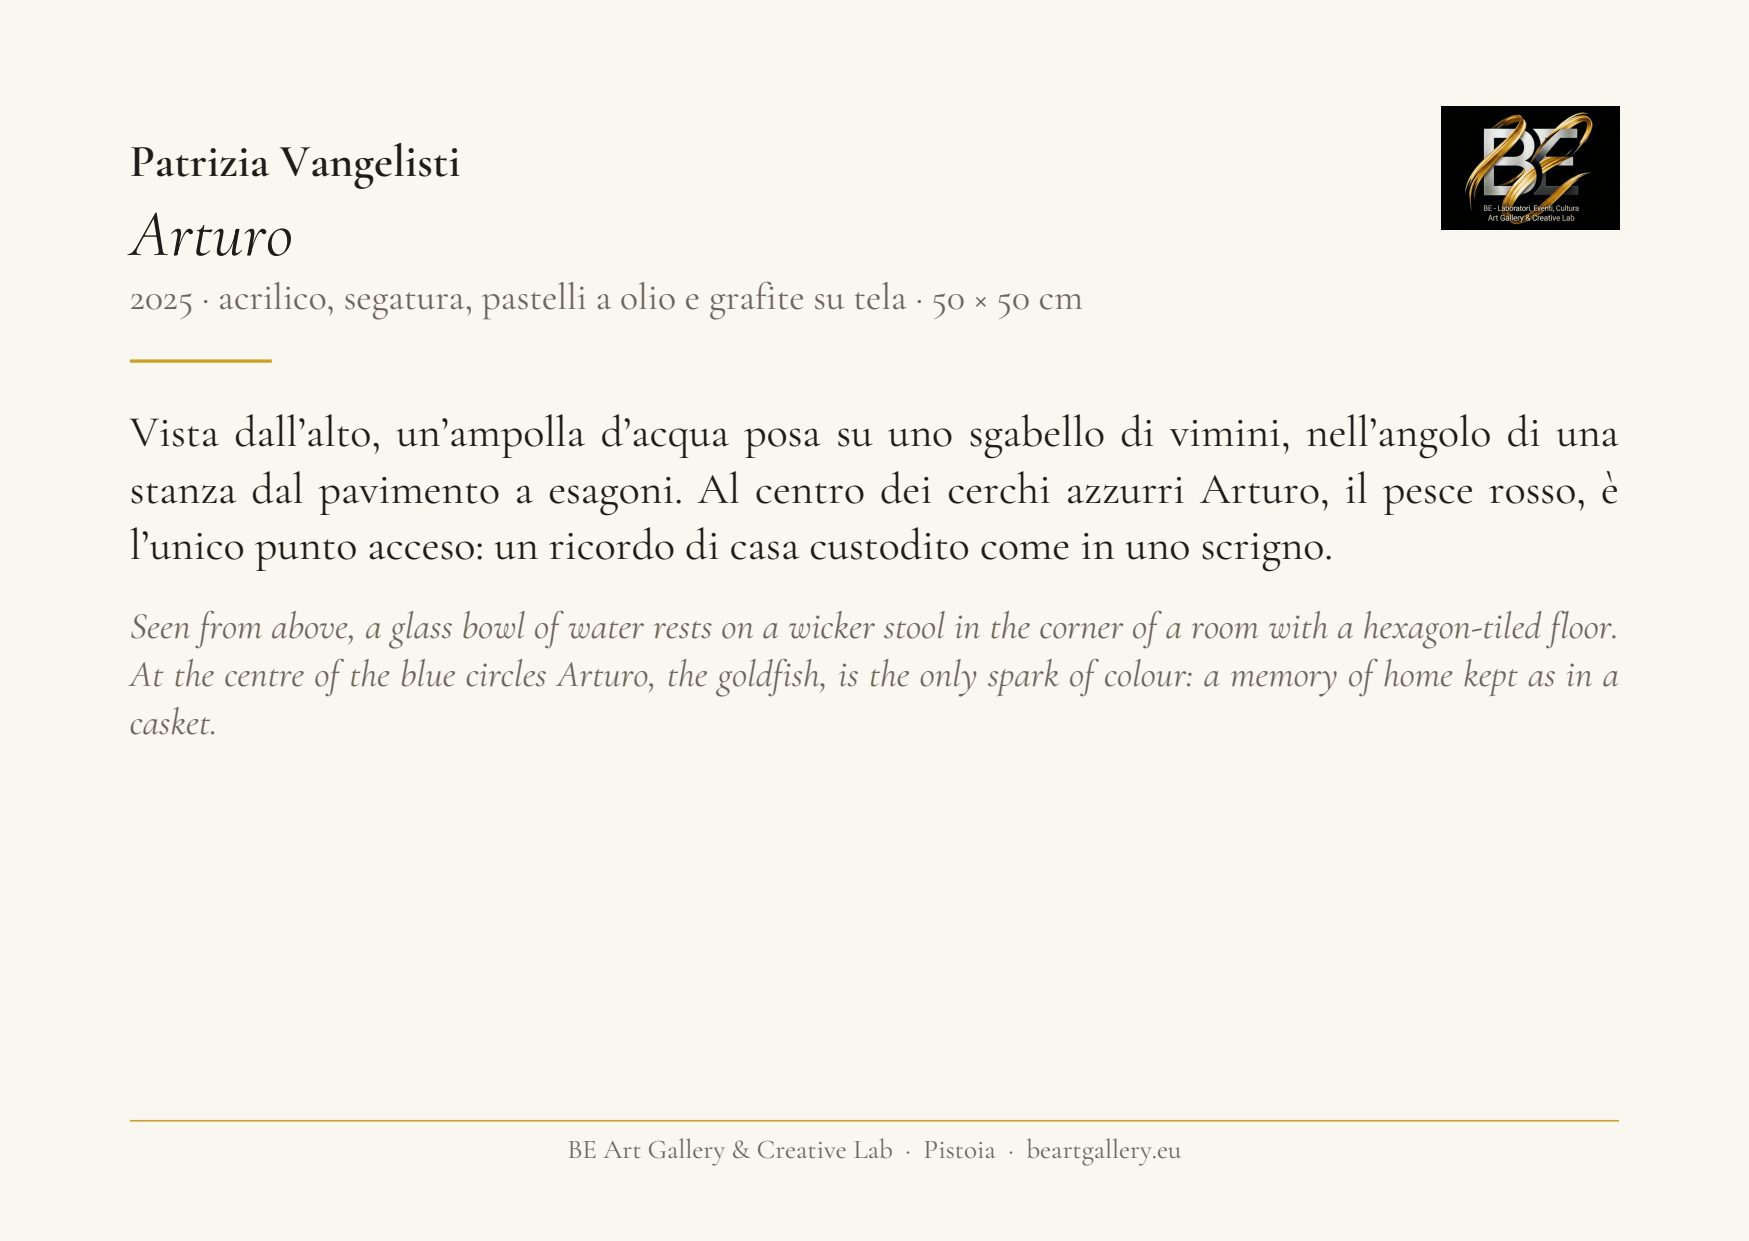
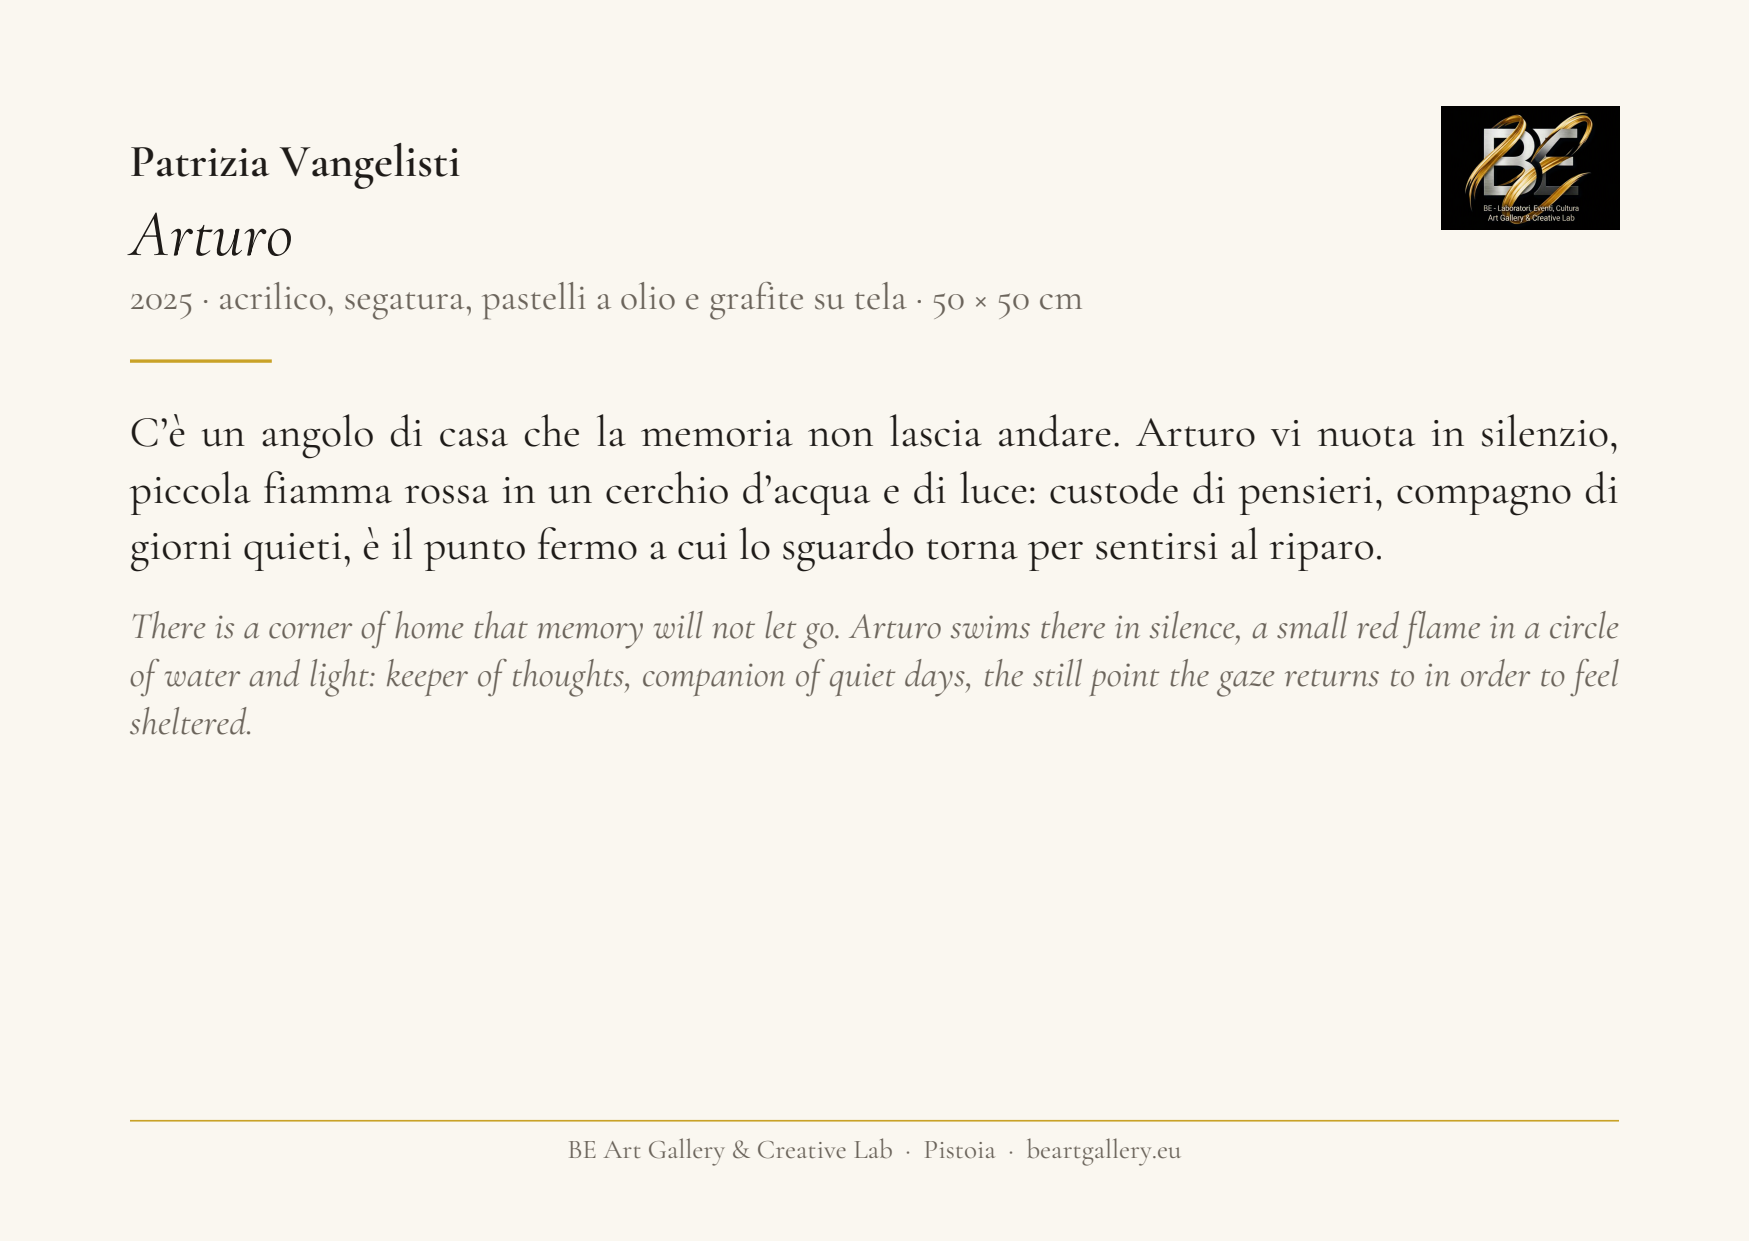
Riscrive la didascalia di Arturo sulle emozioni
La prima versione descriveva quello che il quadro già mostra. Annota nella
procedura che la didascalia parte dall'emozione, non dalla descrizione.

Claude-Session: https://claude.ai/code/session_0148bZgqQiCtdshijf84M1Qp

Changed region(s): [[0.0617, 0.3368, 0.9262, 0.4593], [0.0617, 0.4899, 0.9262, 0.6124]]

diff --git a/testi-critici/artisti/patrizia-vangelisti/analisi.md b/testi-critici/artisti/patrizia-vangelisti/analisi.md
@@ -35,13 +35,17 @@
 
 ### *Arturo* — 2025, acrilico, segatura, pastelli a olio e grafite su tela, 50 × 50 cm
 
-**Italiano** — _245 caratteri_
+**Italiano** — _250 caratteri_ · v2, più sulle emozioni che sulla descrizione
 
-> Vista dall'alto, un'ampolla d'acqua posa su uno sgabello di vimini, nell'angolo di una stanza dal pavimento a esagoni. Al centro dei cerchi azzurri Arturo, il pesce rosso, è l'unico punto acceso: un ricordo di casa custodito come in uno scrigno.
+> C'è un angolo di casa che la memoria non lascia andare. Arturo vi nuota in silenzio, piccola fiamma rossa in un cerchio d'acqua e di luce: custode di pensieri, compagno di giorni quieti, è il punto fermo a cui lo sguardo torna per sentirsi al riparo.
 
 **English**
 
-> Seen from above, a glass bowl of water rests on a wicker stool in the corner of a room with a hexagon-tiled floor. At the centre of the blue circles Arturo, the goldfish, is the only spark of colour: a memory of home kept as in a casket.
+> There is a corner of home that memory will not let go. Arturo swims there in silence, a small red flame in a circle of water and light: keeper of thoughts, companion of quiet days, the still point the gaze returns to in order to feel sheltered.
+
+**v1, scartata da Elena perché troppo descrittiva**
+
+> Vista dall'alto, un'ampolla d'acqua posa su uno sgabello di vimini, nell'angolo di una stanza dal pavimento a esagoni. Al centro dei cerchi azzurri Arturo, il pesce rosso, è l'unico punto acceso: un ricordo di casa custodito come in uno scrigno.
 
 **Cosa ho visto** — veduta zenitale; l'anello dorato dello sgabello con le legature in rattan; l'acqua a cerchi concentrici azzurri e bianchi, con la trama a puntini del fondo che traspare; il pesce rosso, piccolo e fuori centro, unico colore saturo; le due pareti che convergono nell'angolo, sfumate a grafite; il pavimento a esagoni rosso mattone e avorio, granuloso per la segatura.
 

diff --git a/testi-critici/PROCEDURA.md b/testi-critici/PROCEDURA.md
@@ -137,6 +137,10 @@ da cartellino: **150–300 caratteri**, accanto a titolo, anno, tecnica e misure
 
 - stesso metodo, applicato a un'opera sola: si parte da ciò che si vede
   (materia, composizione, colore, luce) e si arriva a ciò che significa
+- **l'emozione prima della descrizione**: chi legge ha il quadro davanti e
+  vede da sé cosa c'è dipinto. La didascalia dice cosa si prova, cosa
+  custodisce l'opera; i dati visivi restano nelle note di analisi, a
+  sostenere la lettura, non nel testo
 - **una sola idea**, detta bene: la didascalia non riassume la ricerca
   dell'artista, accompagna lo sguardo davanti a quel quadro
 - niente riferimenti ad altri artisti: in così poco spazio diventano etichette
